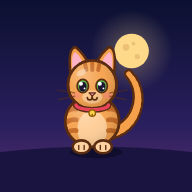
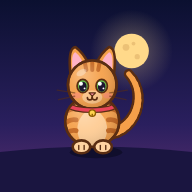
Bords du collier ajustés au contour du chat
Claude-Session: https://claude.ai/code/session_01JdYRHE65jz55i9QTGZhUWS

Changed region(s): [[0.3438, 0.5312, 0.5938, 0.5938]]

diff --git a/index.html b/index.html
@@ -2985,11 +2985,16 @@
   // drawn before the head (so the head hides it), its near half after.
   function drawCollar(c, sk, hy, half) {
     const from = half === 'far' ? Math.PI : 0, to = half === 'far' ? TAU : Math.PI;
-    c.lineCap = 'round';
+    // Wide enough to reach the sides of the body, then clipped to it so the
+    // ends meet the cat's outline exactly
+    c.save();
+    c.beginPath(); c.ellipse(0, hy + 27, 20 - OUTLINE_W / 2, 19 - OUTLINE_W / 2, 0, 0, TAU); c.clip();
+    c.lineCap = 'butt';
     c.strokeStyle = sk.outline; c.lineWidth = 4.4;
-    c.beginPath(); c.ellipse(0, hy + 15, 12, 3.6, 0, from, to); c.stroke();
+    c.beginPath(); c.ellipse(0, hy + 15, 17, 3.8, 0, from, to); c.stroke();
     c.strokeStyle = sk.collar || '#e8445a'; c.lineWidth = 2.6;
-    c.beginPath(); c.ellipse(0, hy + 15, 12, 3.6, 0, from, to); c.stroke();
+    c.beginPath(); c.ellipse(0, hy + 15, 17, 3.8, 0, from, to); c.stroke();
+    c.restore();
   }
 
   // Tapered tail along a cubic curve P, with a light tip
